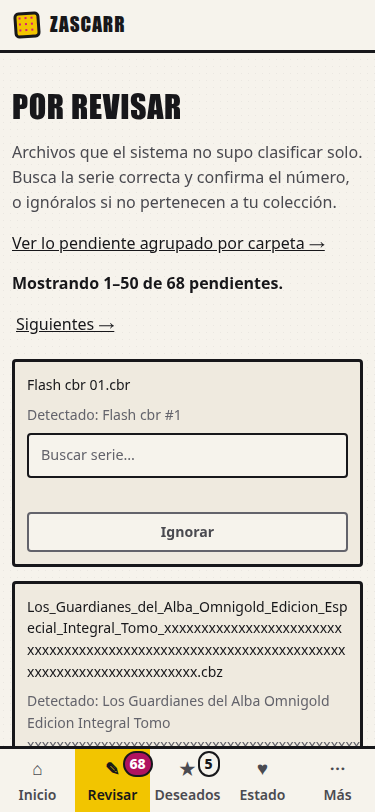
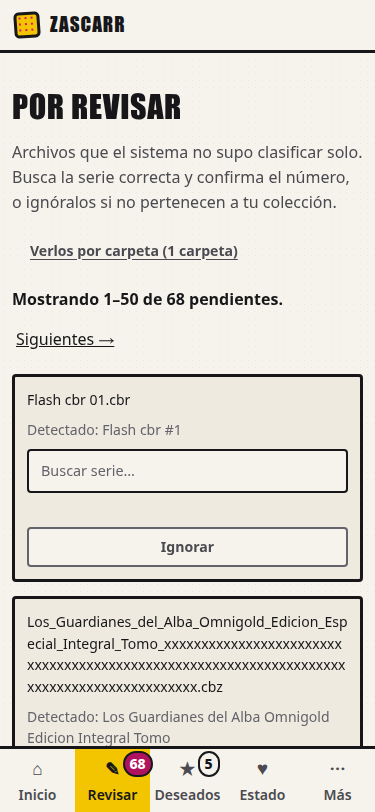
ui: «Por revisar», revisión de #214: página vaciada, recuento de carpetas y refrescos fuera de orden (U12)
- /ui/pendientes/rango: una página posterior completamente resuelta daba «Mostrando 0–50 de 70»;
  ahora no tiene rango («Ya no quedan pendientes en esta página»). Prueba con Postgres real.
- El acceso a las carpetas dice cuántas hay: «Verlos por carpeta (N carpetas)», con la misma
  definición de grupo que la pantalla de carpetas; si el recuento falla, el enlace va sin número.
- hx-sync="#pend-rango:replace" en el refresco. Medido en navegador con orden inverso de
  finalización: con y sin él gana el último (outerHTML); el aborto es defensa adicional.
- Docstring de cola_de: imported_at admite NULL.

Changed region(s): [[0.0293, 0.2771, 0.968, 0.6466], [0.0293, 0.6466, 0.968, 0.9236]]

diff --git a/src/zascarr/web/templates/pendientes.html b/src/zascarr/web/templates/pendientes.html
@@ -3,11 +3,12 @@
 {% block content %}
 <h1>Por revisar</h1>
 <p class="subtitle">Archivos que el sistema no supo clasificar solo. Busca la serie correcta y confirma el número, o ignóralos si no pertenecen a tu colección.</p>
-<p><a href="/ui/pendientes/carpetas">Ver lo pendiente agrupado por carpeta →</a></p>
-
 {% if not cards %}
 <p class="empty">Nada pendiente — todo lo importado se ha podido clasificar.</p>
 {% else %}
+{#- Criterio 5: el acceso a las carpetas se ve como ACCIÓN, con su recuento y qué cuenta (carpetas). -#}
+<p><a class="btn ghost pend-carpetas" href="/ui/pendientes/carpetas">
+  Verlos por carpeta{% if carpetas %} ({{ carpetas }} carpeta{{ "s" if carpetas != 1 }}){% endif %}</a></p>
 {% include "_pendientes_rango.html" %}
 {#- Las claves de los extremos de la página: el refresco tras resolver una tarjeta las envía para recalcular el rango. -#}
 <div id="pend-clave" hidden>

diff --git a/docs/design/ui-u12/capturar_u12.py b/docs/design/ui-u12/capturar_u12.py
@@ -99,6 +99,80 @@ def respuestas(nav, patron: str) -> list[int]:
             if e.get("method") == "Network.responseReceived" and re.search(patron, e["params"]["response"]["url"])]
 
 
+async def refrescos_fuera_de_orden(nav, base: str, quitar_sync: bool) -> dict:
+    """Bloqueante 3 de la revisión: dos «Ignorar» seguidos lanzan dos refrescos del rango y el PRIMERO termina
+    DESPUÉS. Con `Fetch` se retiene la RESPUESTA del primero (en la etapa de respuesta: el servidor ya la calculó,
+    con el dato de ese momento) hasta que el segundo ha terminado, y se mira qué queda en pantalla. `quitar_sync` elimina `hx-sync` de las respuestas de «Ignorar» (variante de control: sin el
+    mecanismo...). RESULTADO HONESTO: en htmx 4.0.0 / Chrome 154 la variante de control TAMBIÉN conserva el último,
+    porque el refresco es un `outerHTML`: al sustituir el nuevo a `#pend-rango`, la respuesta antigua apunta a un
+    elemento ya desconectado y no hace nada. `hx-sync` añade el ABORTO de la petición antigua (visible en
+    `refrescos_abortados_o_fallidos`), pero no es lo que evita la sobrescritura: es una defensa adicional."""
+    await nav.ir(base + "/ui/pendientes", espera=1.5)
+    inicial = await nav.js("document.querySelector('#pend-rango').textContent.trim()")
+    retenidas: list[dict] = []
+    await nav.cdp("Fetch.enable", patterns=[
+        {"urlPattern": "*/ui/pendientes/rango*", "requestStage": "Response"},
+        {"urlPattern": "*/ignorar", "requestStage": "Response"}])
+    nav._eventos.clear()
+
+    async def atender() -> None:
+        while True:
+            for e in list(nav._eventos):
+                if e.get("method") != "Fetch.requestPaused" or e.get("_visto"):
+                    continue
+                e["_visto"] = True
+                par = e["params"]
+                url = par["request"]["url"]
+                if url.endswith("/ignorar") and "responseStatusCode" in par:
+                    cuerpo = await nav.cdp("Fetch.getResponseBody", requestId=par["requestId"])
+                    import base64
+                    texto = base64.b64decode(cuerpo["body"]).decode() if cuerpo.get("base64Encoded") else cuerpo["body"]
+                    if quitar_sync:
+                        texto = texto.replace(' hx-sync="#pend-rango:replace"', "")
+                    cabeceras = [h for h in par["responseHeaders"] if h["name"].lower() != "content-length"]
+                    await nav.cdp("Fetch.fulfillRequest", requestId=par["requestId"], responseCode=200,
+                                  responseHeaders=cabeceras, body=base64.b64encode(texto.encode()).decode())
+                elif "/ui/pendientes/rango" in url:
+                    if not retenidas:                       # la respuesta del PRIMER refresco se retiene
+                        retenidas.append(par)
+                    else:
+                        await nav.cdp("Fetch.continueResponse", requestId=par["requestId"])
+            await asyncio.sleep(0.05)
+
+    tarea = asyncio.create_task(atender())
+    try:
+        for _ in range(2):                                  # dos tarjetas resueltas, seguidas
+            await asyncio.gather(clic(nav, ".pending-card .btn-ignorar"), aceptar_confirm(nav))
+            nav._eventos[:] = [e for e in nav._eventos if e.get("method") != "Page.javascriptDialogOpening"]
+            await asyncio.sleep(0.8)
+        await asyncio.sleep(1.0)
+        tras_el_segundo = await nav.js("document.querySelector('#pend-rango').textContent.trim()")
+        if retenidas:                                       # ahora se SUELTA la respuesta antigua
+            try:
+                await nav.cdp("Fetch.continueResponse", requestId=retenidas[0]["requestId"])
+            except RuntimeError:
+                pass                                        # htmx la abortó: ya no existe
+        await asyncio.sleep(1.5)
+        al_final = await nav.js("document.querySelector('#pend-rango').textContent.trim()")
+    finally:
+        tarea.cancel()
+        await nav.cdp("Fetch.disable")
+    def cuenta(metodo: str, patron: str) -> int:
+        return sum(1 for e in nav._eventos if e.get("method") == metodo
+                   and re.search(patron, json.dumps(e.get("params", {}))))
+    diagnostico = {
+        "posts_ignorar": cuenta("Network.requestWillBeSent", r'"url": "[^"]*/ignorar"'),
+        "refrescos_pedidos": cuenta("Network.requestWillBeSent", r'/ui/pendientes/rango'),
+        "refrescos_abortados_o_fallidos": cuenta("Network.loadingFailed", r'.'),
+        "fetch_pausados": sum(1 for e in nav._eventos if e.get("method") == "Fetch.requestPaused")}
+    # Una ejecución solo vale si ocurrió lo que se quería probar: dos resoluciones y dos refrescos.
+    valido = diagnostico["posts_ignorar"] == 2 and diagnostico["refrescos_pedidos"] == 2 and bool(retenidas)
+    return {"valido": valido, "con_hx_sync": not quitar_sync, "diagnostico": diagnostico, "inicial": inicial,
+            "tras_el_segundo_refresco": tras_el_segundo,
+            "tras_soltar_el_primero": al_final, "primero_retenido": bool(retenidas),
+            "gana_el_ultimo": al_final == tras_el_segundo}
+
+
 async def main(base: str, salida: Path) -> None:
     salida.mkdir(parents=True, exist_ok=True)
     sembrado = subprocess.run(
@@ -147,6 +221,11 @@ async def main(base: str, salida: Path) -> None:
             "estado_rango": respuestas(nav, r"/ui/pendientes/rango"),
             "navegaciones": await nav.js("performance.getEntriesByType('navigation').length")}
         await nav.foto(salida / "3-tras-ignorar-375.png", completa=False)
+
+        # ── D. Refrescos que terminan FUERA DE ORDEN (revisión de #214): con el mecanismo y sin él (control)
+        datos["fuera_de_orden"] = {
+            "con_hx_sync": await refrescos_fuera_de_orden(nav, base, quitar_sync=False),
+            "control_sin_hx_sync": await refrescos_fuera_de_orden(nav, base, quitar_sync=True)}
     finally:
         await nav.cerrar()
     (salida / "datos.json").write_text(json.dumps(datos, ensure_ascii=False, indent=2) + "\n", encoding="utf-8")

diff --git a/tests/test_pendientes_navegacion_pg.py b/tests/test_pendientes_navegacion_pg.py
@@ -355,3 +355,85 @@ class TestImportedAtNulo:
         async with entorno.banco.fabrica() as s:
             nulo = str((await s.execute(text("SELECT id FROM files WHERE imported_at IS NULL"))).scalar_one())
         assert vistos[-1] == nulo, "el que no tiene fecha va el último"
+
+
+# ── Revisión de #214 ──────────────────────────────────────────────────────────────────────────
+class TestPaginaPosteriorVaciada:
+    """Bloqueante 1 de la revisión: con la segunda página completamente resuelta, `/rango` devolvía `desde=0` y
+    `hasta=delante`: «Mostrando 0–50 de 70». Una página vaciada no tiene rango."""
+
+    async def test_el_rango_de_una_pagina_posterior_completamente_resuelta_no_es_imposible(self, entorno):
+        await sembrar(entorno, 120)
+        p1 = await pedir()
+        p2 = await pedir(p1.siguiente)
+        assert (p2.desde, p2.hasta, p2.total) == (51, 100, 120)
+        primero, ultimo = p2.primero, p2.ultimo
+        await ignorar(p2.ids)                                   # se vacía la segunda página entera
+        async with cliente() as c:
+            r = await c.get("/ui/pendientes/rango", params={"primero": primero, "ultimo": ultimo})
+        assert r.status_code == 200
+        f = Lista(r.text)
+        assert (f.desde, f.hasta, f.total) == (0, 0, 70)
+        assert "Mostrando" not in f.visible and "0–50" not in f.visible
+        assert "Ya no quedan pendientes en esta página" in f.visible and "70" in f.visible
+
+    async def test_vaciar_la_ultima_pagina_y_toda_la_cola(self, entorno):
+        orden = await sembrar(entorno, 4)
+        p = await pedir()
+        await ignorar(orden)
+        async with cliente() as c:
+            r = await c.get("/ui/pendientes/rango", params={"primero": p.primero, "ultimo": p.ultimo})
+        assert "Ya no queda nada pendiente" in Lista(r.text).visible
+
+
+class TestEnlaceACarpetas:
+    """Bloqueante 2: el criterio 5 pide «Verlos por carpeta (N)» y N no existía. N = número de CARPETAS, con el
+    mismo conteo de grupos que la propia pantalla de carpetas (una sola definición de «grupo»)."""
+
+    async def test_el_enlace_dice_cuantas_carpetas_y_coincide_con_la_pantalla_de_carpetas(self, entorno):
+        for carpeta in ("Comics/Flash (1987)", "Comics/Batman (2011)", "Manga/Akira"):
+            await archivos(entorno, f"{carpeta.split('/')[1]} 01.cbz", f"{carpeta.split('/')[1]} 02.cbz",
+                           carpeta=carpeta, en_disco=False)
+        p = await pedir()
+        m = re.search(r'<a class="[^"]*pend-carpetas[^"]*" href="/ui/pendientes/carpetas">(.*?)</a>', p.t, re.S)
+        assert m, "no hay enlace a carpetas con su clase"
+        assert " ".join(re.sub(r"<[^>]+>", " ", m.group(1)).split()) == "Verlos por carpeta (3 carpetas)"
+        from zascarr.services.revision_carpetas import RevisionCarpetas
+        async with entorno.banco.fabrica() as s:
+            assert (await RevisionCarpetas(s).carpetas(limite=1)).totales.grupos == 3
+
+    async def test_una_sola_carpeta_va_en_singular(self, entorno):
+        await sembrar(entorno, 3)
+        assert "Verlos por carpeta (1 carpeta)" in (await pedir()).visible
+
+    async def test_sin_pendientes_no_hay_enlace(self, entorno):
+        assert "pend-carpetas" not in (await pedir()).t
+
+    async def test_si_el_recuento_de_carpetas_falla_la_bandeja_sigue_funcionando(self, entorno, monkeypatch):
+        """El recuento es un adorno de un enlace: no puede tumbar la lista."""
+        from zascarr.web import pendientes as web
+
+        async def roto(db):
+            raise RuntimeError("fallo del recuento")
+        monkeypatch.setattr(web, "contar_carpetas", roto)
+        orden = await sembrar(entorno, 3)
+        p = await pedir()
+        assert p.status == 200 and p.ids == orden
+        assert re.search(r'<a class="[^"]*pend-carpetas[^"]*" href="/ui/pendientes/carpetas">\s*Verlos por carpeta\s*</a>', p.t)
+        assert "carpetas)" not in p.visible
+
+
+class TestRefrescosFueraDeOrden:
+    """Bloqueante 3: dos refrescos seguidos no pueden dejar visible el rango del PRIMERO si el segundo ya terminó.
+    La prueba real (orden inverso de finalización) es la del navegador, `docs/design/ui-u12/`; aquí se fija el
+    mecanismo: ambos refrescos se sincronizan sobre `#pend-rango` y el nuevo REEMPLAZA al que sigue en vuelo."""
+
+    async def test_el_gancho_de_refresco_reemplaza_al_que_sigue_en_vuelo(self, entorno):
+        await sembrar(entorno, 3)
+        p = await pedir()
+        async with cliente() as c:
+            r = await c.post(f"/ui/pendientes/{p.ids[0]}/ignorar", headers={"HX-Request": "true"})
+        span = re.search(r'<span class="pend-recuento"[^>]*>', r.text)
+        assert span, r.text
+        assert 'hx-sync="#pend-rango:replace"' in span.group(0)
+        assert 'hx-include="#pend-clave"' in span.group(0) and 'hx-target="#pend-rango"' in span.group(0)

diff --git a/src/zascarr/web/pendientes.py b/src/zascarr/web/pendientes.py
@@ -83,6 +83,22 @@ def _card(f: File) -> dict:
     }
 
 
+async def contar_carpetas(db: AsyncSession) -> int:
+    """Cuántas carpetas (grupos) tienen pendientes, con la MISMA definición que la pantalla de
+    carpetas: una sola definición de «grupo» (`RevisionCarpetas`). Lee los pendientes y los
+    agrupa en memoria, igual que esa pantalla; `limite=1` evita materializar la página."""
+    return (await RevisionCarpetas(db).carpetas(limite=1)).totales.grupos
+
+
+async def _carpetas_o_nada(db: AsyncSession) -> int | None:
+    """El recuento adorna un enlace: si falla, la bandeja sigue y el enlace va sin número."""
+    try:
+        return await contar_carpetas(db)
+    except Exception as exc:  # noqa: BLE001 — no debe tumbar la lista
+        logger.warning("pendientes.recuento_de_carpetas_fallo", error=type(exc).__name__)
+        return None
+
+
 def _enlace(parametro: str, clave: ClavePendiente) -> str:
     return f"/ui/pendientes?{urlencode({parametro: clave.a_texto()})}"
 
@@ -109,8 +125,10 @@ async def index(
     contexto: dict = {
         "cards": [_card(f) for f in pagina.archivos],
         "rango": _rango(pagina.desde, pagina.hasta, pagina.total),
-        "siguiente": None, "anterior": None, "inicio": None, "primero": None, "ultimo": None}
+        "siguiente": None, "anterior": None, "inicio": None, "primero": None, "ultimo": None,
+        "carpetas": None}
     if pagina.archivos:
+        contexto["carpetas"] = await _carpetas_o_nada(db)
         primero = ClavePendiente.de(pagina.archivos[0])
         ultimo = ClavePendiente.de(pagina.archivos[-1])
         contexto.update(
@@ -140,7 +158,8 @@ async def rango(
     total = await servicio.count_pending()
     delante = await servicio.contar_antes_de(k1)
     quedan = await servicio.contar_entre(k1, k2)
-    r = _rango(delante + 1 if quedan else 0, delante + quedan, total)
+    # Una página vaciada no tiene rango: ni «desde» ni «hasta» (no «0–50»).
+    r = _rango(delante + 1, delante + quedan, total) if quedan else _rango(0, 0, total)
     resp = templates.TemplateResponse(request, "_pendientes_rango.html", {"rango": r})
     resp.headers["Cache-Control"] = "no-store"
     return resp
@@ -297,11 +316,15 @@ def interpretar(r: Resultado) -> Respuesta:
 #: U12: junto al menú se refresca «Mostrando X–Y de N» con el MISMO mecanismo (un elemento
 #: inerte que se pide al cargarse). Toma las claves de los extremos de `#pend-clave`; si no
 #: hay lista en pantalla, `#pend-rango` no existe y no se intercambia nada.
+#: `hx-sync="#pend-rango:replace"`: dos resoluciones seguidas lanzan dos refrescos; el último
+#: REEMPLAZA (aborta) al que sigue en vuelo, así que una respuesta antigua que llegue tarde no
+#: sobrescribe el rango más reciente. Es del propio htmx, sin JavaScript nuestro.
 RECONTAR_MENU = (
     '<span class="nav-recuento" hidden hx-get="/ui/_nav/estado" hx-trigger="load" '
     'hx-swap="none"></span>'
     '<span class="pend-recuento" hidden hx-get="/ui/pendientes/rango" hx-trigger="load" '
-    'hx-include="#pend-clave" hx-target="#pend-rango" hx-swap="outerHTML"></span>')
+    'hx-include="#pend-clave" hx-target="#pend-rango" hx-swap="outerHTML" '
+    'hx-sync="#pend-rango:replace"></span>')
 
 
 def _es_htmx(request: Request) -> bool:

diff --git a/tests/test_pendientes.py b/tests/test_pendientes.py
@@ -51,7 +51,9 @@ class FakeExecResult:
 
 def cola_de(files: list) -> list:
     """Lo que consume `GET /ui/pendientes` (cursor, U12): el total, la lista y —si hay lista— cuántos van antes del
-    primero. `imported_at` es NOT NULL en la BD: aquí se rellena para los archivos que no lo traen."""
+    primero. `imported_at` ADMITE NULL en la BD real (la migración inicial no pone NOT NULL); los archivos de
+    estas pruebas no lo traen y se rellena para que el cursor tenga clave. El caso NULL real tiene su prueba
+    con Postgres en `test_pendientes_navegacion_pg.py::TestImportedAtNulo`."""
     ahora = datetime(2026, 10, 1, 12, 0, tzinfo=UTC)
     for f in files:
         f.imported_at = f.imported_at or ahora

diff --git a/docs/design/ui-u12/README.md b/docs/design/ui-u12/README.md
@@ -1,6 +1,7 @@
 # Evidencia de U12 (#199): «Por revisar» a escala, en la aplicación integrada a 375 px
 
-Mediciones en **navegador real** de la rama `claude/u12-pendientes-escala` (`31acfce`), 2026-10-15. Ficha de
+Mediciones en **navegador real** de la rama `claude/u12-pendientes-escala`, 2026-10-15 (segunda versión, tras la
+revisión de la PR #214: enlace a carpetas con recuento, página vaciada y refrescos fuera de orden). Ficha de
 referencia: `docs/design/benchmark-U12-pendientes-escala.md` (PR #213).
 
 | Dato | Valor |
@@ -25,8 +26,31 @@ referencia: `docs/design/benchmark-U12-pendientes-escala.md` (PR #213).
 | Disponible (11) | La portada mide **120 × 180** y está **debajo** del nombre | PASS |
 | Desconocida sin hueco (10) | **43 portadas** que fallan, todas con **0 px** de alto; sin `onerror` en la página | PASS (Chrome) |
 | Peticiones de portada | 49 para 50 tarjetas (la del `.cbr` no pide): 6 × 200 y 43 × 404 | informativo |
+| Enlace a carpetas (criterio 5) | «Verlos por carpeta (**1 carpeta**)»: N = número de **carpetas** (grupos), con la misma definición que la pantalla de carpetas. En el ensayo todo está en `_Unsorted`, de ahí 1 | PASS |
+| Refrescos fuera de orden (bloqueante 3) | Dos «Ignorar» seguidos; la respuesta del **primer** refresco se retiene hasta que termina el segundo y entonces se suelta. Con `hx-sync`: **1 petición abortada** y queda «1–48 de 65». **Control sin `hx-sync`: también queda «1–48 de 63»** (ver abajo) | PASS |
 
 ![primera página](1-primera-pagina-375.png) ![segunda](2-segunda-pagina-375.png) ![tras ignorar](3-tras-ignorar-375.png)
+
+## Refrescos fuera de orden: lo que se midió y lo que NO se puede afirmar
+
+El experimento (`refrescos_fuera_de_orden` en el guion, con `Fetch` del protocolo, en la etapa de **respuesta**) retiene
+la respuesta ya calculada del primer refresco, deja terminar el segundo, suelta la antigua y mira qué queda. Cada
+ejecución solo vale si hubo 2 resoluciones y 2 refrescos (`valido`). Resultado, en htmx 4.0.0 / Chrome 154:
+
+| Variante | Resoluciones / refrescos | Abortados | Tras el 2.º refresco | Tras soltar el 1.º |
+|---|---|---|---|---|
+| Con `hx-sync="#pend-rango:replace"` | 2 / 2 | **1** | 1–48 de 65 | 1–48 de 65 |
+| Control: sin `hx-sync` (se quita de la respuesta) | 2 / 2 | 0 | 1–48 de 63 | 1–48 de 63 |
+
+**El control también conserva el último.** La explicación, que es la que mejor encaja con lo observado pero que **no
+he verificado leyendo el código de htmx**: el refresco es un `outerHTML`; cuando el nuevo sustituye a `#pend-rango`,
+la respuesta antigua apunta al elemento viejo, ya desconectado, y no tiene efecto visible. Por tanto:
+- **No puedo afirmar que `hx-sync` sea necesario** para este contrato; lo que añade es **abortar** la petición
+  antigua (1 abortada en la variante con él) y no depender de un detalle del intercambio. Se mantiene como defensa
+  adicional, no como la causa de que el rango sea correcto.
+- Una primera versión de este experimento retenía la **petición** (antes de que el servidor la calculara) y por eso
+  la respuesta tardía salía fresca: no probaba nada. Está corregido y documentado en el guion.
+- No se ha probado el caso en que el refresco nuevo **falla** (204/500) mientras llega el antiguo.
 
 ## Lo que esto NO acredita
 
